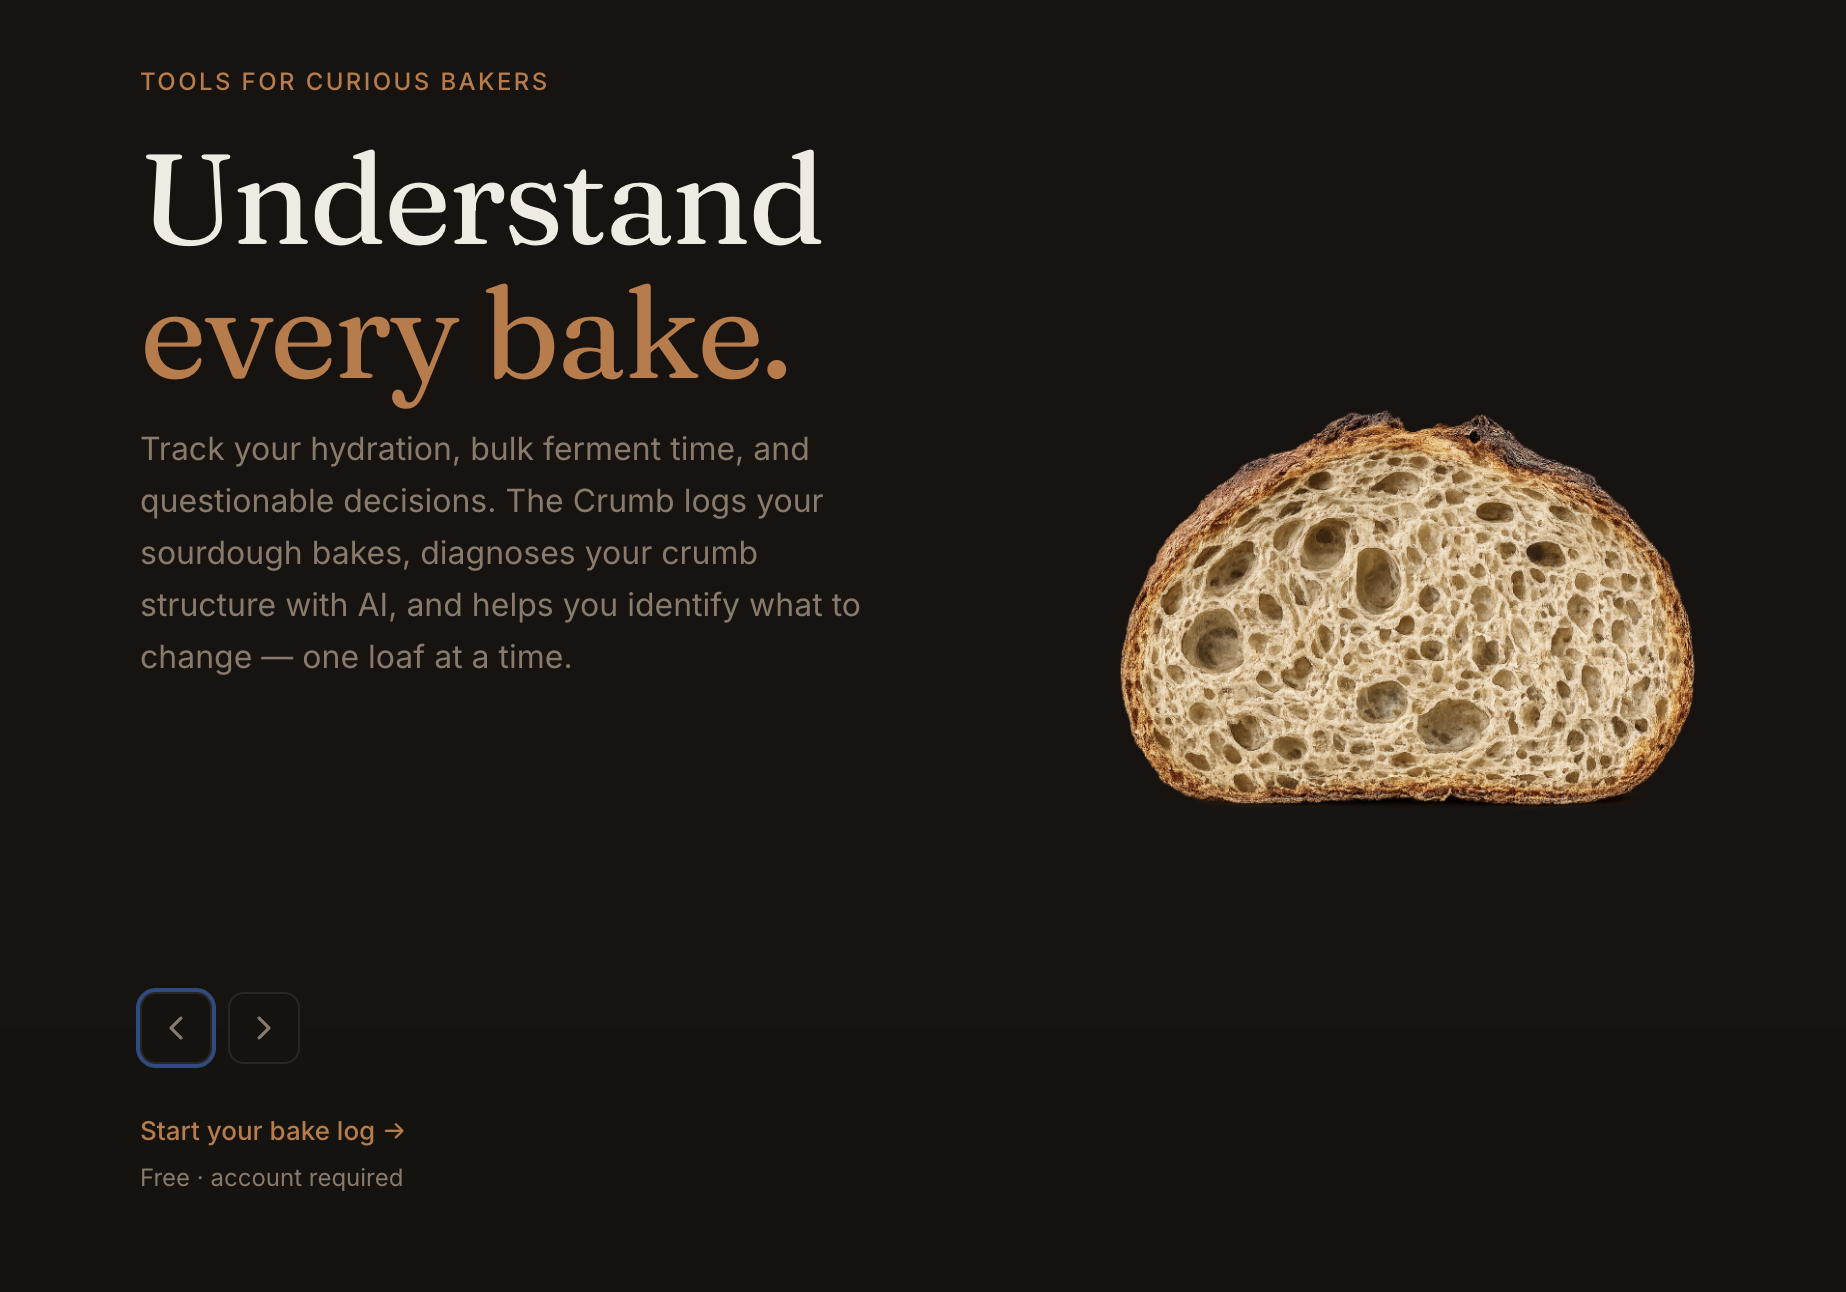
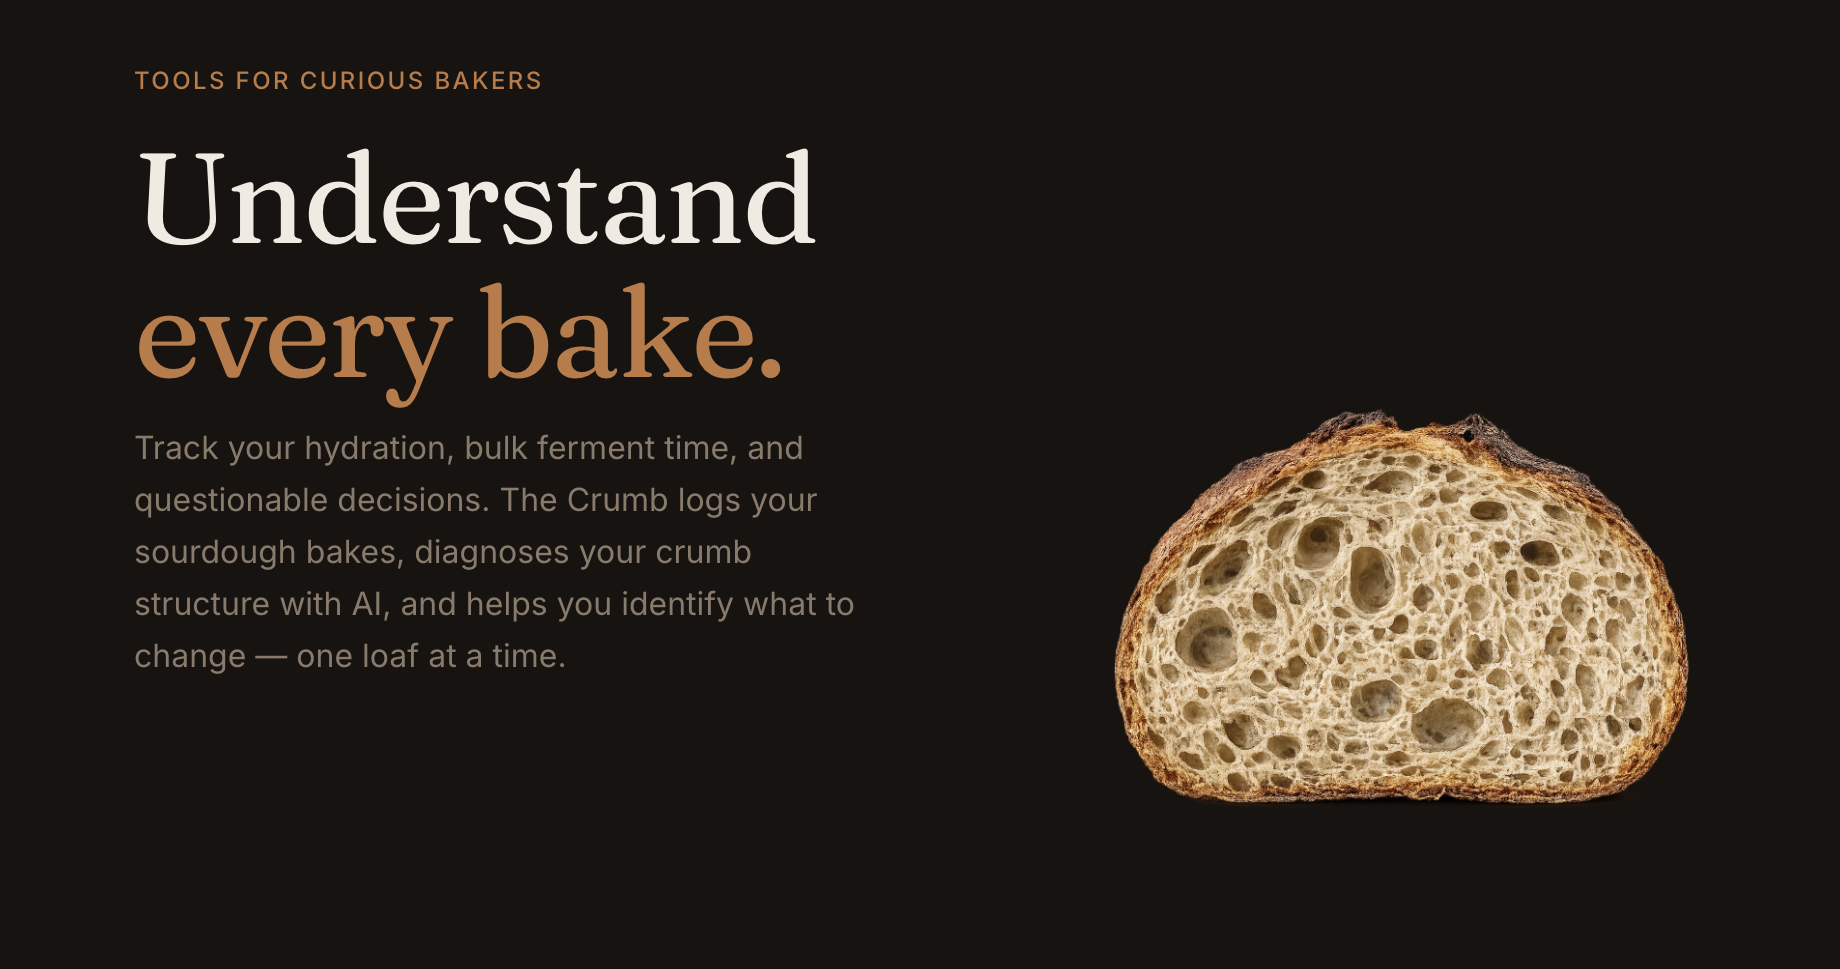
update project images

diff --git a/src/data/projects.ts b/src/data/projects.ts
@@ -42,10 +42,11 @@ export const PROJECTS: Project[] = [
       'A personal project that started me down the path of AI driven development. It started with a simple concept "I really dislike dealing with these messy spreadsheets for these group camping trips, I can build something fun to use and better!". What ended up happening was a classic AI newbie move falling down the rabbithole into endless feature development and no clear MVP. It was super fun to build and build all the features I could add without justification. That said, I\'m current working on refining and streamlining the concept into a proper MVP that can actaully be shipped, not just iterated on endlessly ad nauseum.',
        color: '#8b5e3c',
      images: ['/projects/mealtrip/mealtrip-1.png', 
-      '/projects/mealtrip/mealtrip-2.png', 
+      '/projects/mealtrip/mealtrip-7.png', 
       '/projects/mealtrip/mealtrip-3.png', 
       '/projects/mealtrip/mealtrip-4.png', 
-      '/projects/mealtrip/mealtrip-5.png'
+      '/projects/mealtrip/mealtrip-8.png',
+      '/projects/mealtrip/mealtrip-9.png'
 
      ],
   },